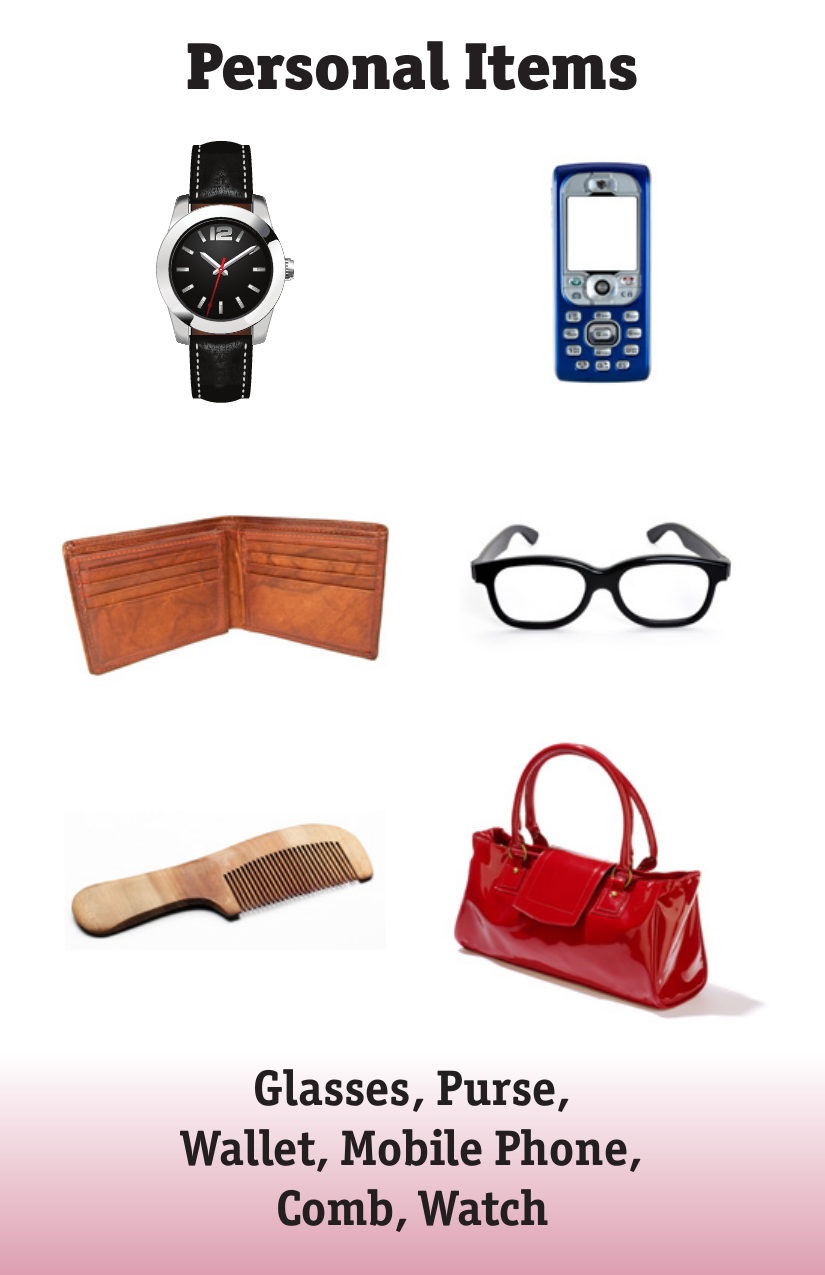
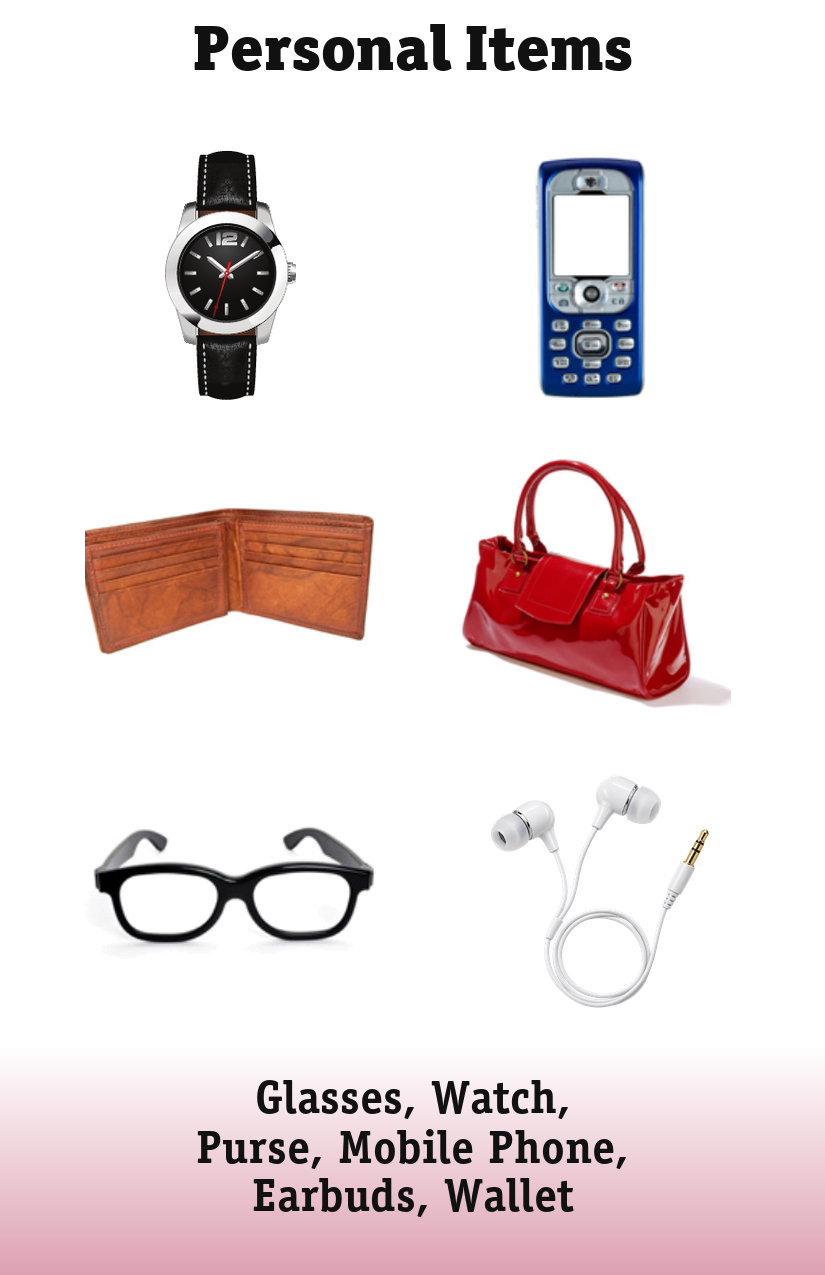
Rebuild Personal Items around clear everyday pairs

diff --git a/picture-this/game-data.js b/picture-this/game-data.js
@@ -60,9 +60,9 @@ window.PICTURE_THIS_GAME_DATA = {
     "Watch",
     "Mobile Phone",
     "Wallet",
+    "Purse",
     "Glasses",
-    "Comb",
-    "Purse"
+    "Earbuds"
   ],
   "snack-time": [
     "Chocolate",
@@ -1406,6 +1406,42 @@ window.PICTURE_THIS_GAME_DATA = {
 window.PICTURE_THIS_GAME_META = {
   "schema_version": 1,
   "cards": {
+    "personal-items": {
+      "title": "Personal Items",
+      "category_answers": ["Personal Items", "Personal Belongings", "Everyday Personal Items", "Things You Carry"],
+      "tags": ["personal-items", "belongings", "everyday", "carry"],
+      "items": [
+        {"id": "watch", "label": "Watch", "answers": ["Watch", "Wristwatch", "Wrist Watch"]},
+        {"id": "mobile-phone", "label": "Mobile Phone", "answers": ["Mobile Phone", "Cell Phone", "Cellphone"]},
+        {"id": "wallet", "label": "Wallet", "answers": ["Wallet", "Billfold"]},
+        {"id": "purse", "label": "Purse", "answers": ["Purse", "Handbag"]},
+        {"id": "glasses", "label": "Glasses", "answers": ["Glasses", "Eyeglasses", "Spectacles"]},
+        {"id": "earbuds", "label": "Earbuds", "answers": ["Earbuds", "Earphones", "In Ear Headphones"]}
+      ],
+      "links": [
+        {
+          "word": "time",
+          "answers": ["time", "clock"],
+          "items": ["watch", "mobile-phone"],
+          "explanation": "The watch and mobile phone are the only two items shown that normally display the time.",
+          "audit": "exclusive-among-six-v1"
+        },
+        {
+          "word": "money",
+          "answers": ["money", "cash"],
+          "items": ["wallet", "purse"],
+          "explanation": "The wallet and purse are the only two items shown specifically used to carry money.",
+          "audit": "exclusive-among-six-v1"
+        },
+        {
+          "word": "head",
+          "answers": ["head", "face", "worn"],
+          "items": ["glasses", "earbuds"],
+          "explanation": "The glasses and earbuds are the only two items shown that are characteristically worn on the head or face.",
+          "audit": "exclusive-among-six-v1"
+        }
+      ]
+    },
     "beverages": {
       "title": "Beverages",
       "category_answers": ["Beverages", "Drinks", "Everyday Beverages", "Common Drinks"],

diff --git a/picture-this/question-data.js b/picture-this/question-data.js
@@ -311,45 +311,45 @@ window.PICTURE_THIS_QUESTION_DATA = {
   },
   "personal-items": {
     "questions": [
-      "Which item on the card is the most useful? Why?",
-      "Which items on the card do you wear? Which ones do you carry? Where do you carry them?",
-      "What are some other personal items that you carry and wear?",
-      "Which item do you use the most? Why?",
-      "What do people put in a purse? Why?",
-      "What personal item would you like to buy? Why?"
+      "Which items tell time, carry money, or are used on the head?",
+      "How can a watch or mobile phone help you manage time?",
+      "What do people keep in a wallet or purse?",
+      "How do glasses and earbuds help people?",
+      "Which of these personal items do you use most often? Why?",
+      "Imagine you leave home for the day. Which three items would you bring?"
     ],
     "positions": [
-      13.14,
-      23.18,
-      37.61,
-      47.73,
-      57.84,
-      67.88
+      12.43,
+      22.75,
+      33.1,
+      43.45,
+      53.84,
+      64.16
     ],
     "endpoints": [
       {
-        "x": 42.42,
-        "y": 17.69
+        "x": 91.52,
+        "y": 16.98
       },
       {
-        "x": 70.91,
-        "y": 31.69
+        "x": 85.21,
+        "y": 27.33
       },
       {
-        "x": 68.12,
-        "y": 41.84
+        "x": 35.88,
+        "y": 37.69
       },
       {
-        "x": 25.58,
-        "y": 52.27
+        "x": 32.12,
+        "y": 48.04
       },
       {
-        "x": 25.58,
-        "y": 62.39
+        "x": 76.24,
+        "y": 58.35
       },
       {
-        "x": 42.79,
-        "y": 72.43
+        "x": 39.39,
+        "y": 73.06
       }
     ]
   },

diff --git a/picture-this/link-data.js b/picture-this/link-data.js
@@ -18,9 +18,7 @@ window.PICTURE_THIS_LINK_DATA = {
   "beverages": [],
   "play": [pictureThisLink("small", [3,4], "The tennis ball and baseball are the only two hand-sized balls shown.")],
   "school": [pictureThisLink("pages", [2,4], "The notebook and book are the only two items shown that are made of bound pages.", ["paged"])],
-  "personal-items": [
-    pictureThisLink("time", [0,1], "The watch and mobile phone are the only two items shown that normally display the time.")
-  ],
+  "personal-items": [],
   "snack-time": [
     pictureThisLink("bunches", [1,3], "Grapes and bananas are the only two foods shown that characteristically grow in bunches.", ["bunch"])
   ],
@@ -275,10 +273,7 @@ const auditedLinkAdditions = {
     pictureThisLink("stationery", [1,2], "Pencil and notebook are the only two items shown that directly form a writing tool and writing surface pair."),
     pictureThisLink("carrying", [3,4], "Backpack and book are the only two items shown that directly form a school container and its typical contents pair.")
   ],
-  "personal-items": [
-    pictureThisLink("containers", [2,5], "Wallet and purse are the only two personal items shown designed to carry money."),
-    pictureThisLink("wearables", [0,3], "Watch and glasses are the only two items shown designed to be worn directly on the body.", ["wearable"])
-  ],
+  "personal-items": [],
   "snack-time": [
     pictureThisLink("baked", [4,5], "Donuts and crackers are the only two baked snack foods shown."),
     pictureThisLink("sweets", [0,4], "Chocolate and donuts are the only two sweet dessert treats shown.")
